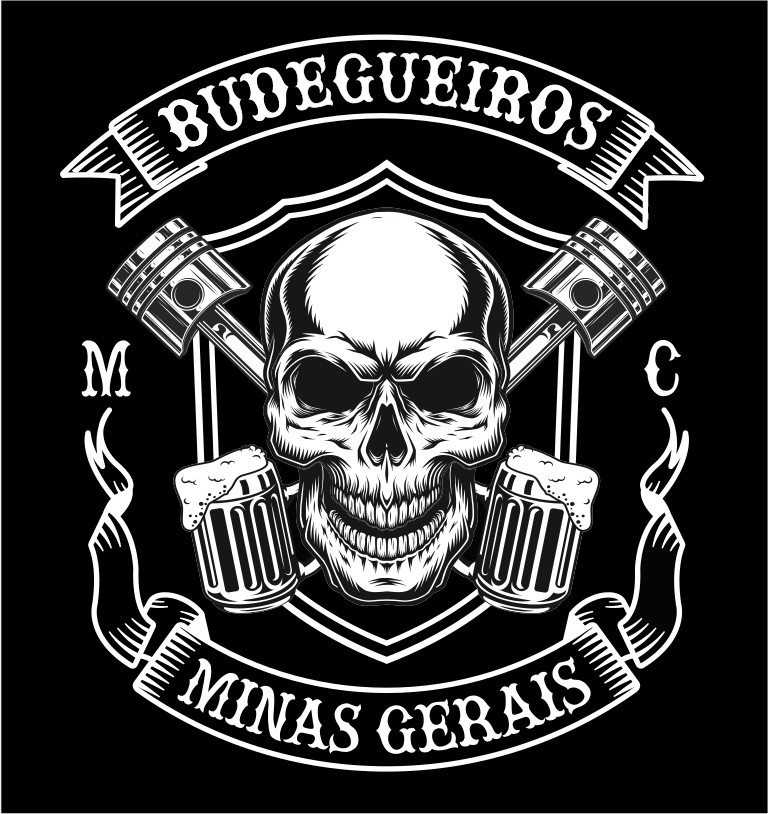
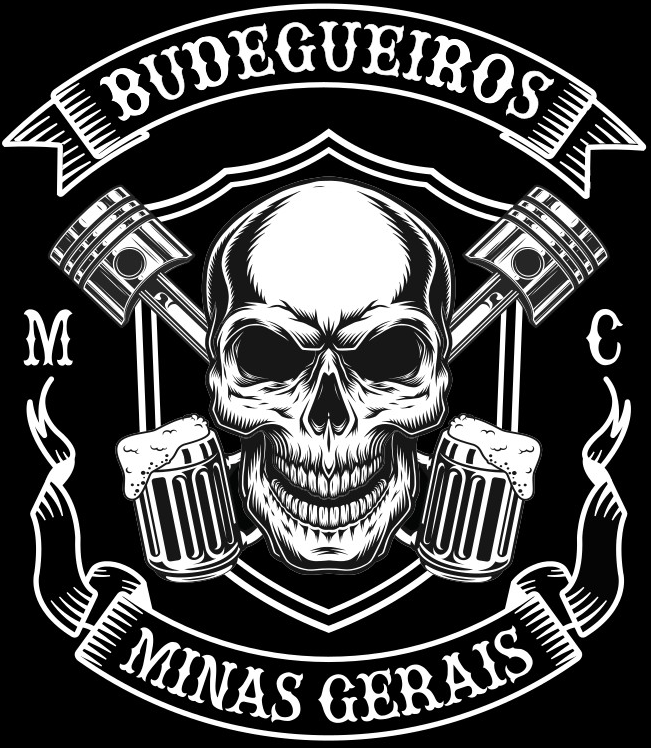
feat: enhance event confirmation features and UI updates
- Added functionality to track and manage event confirmations for logged-in users.
- Introduced loading states and confirmation counts in the AgendaEventCard component.
- Updated the AgendaContent component to fetch and display confirmation data.
- Added a new image (brasao2.jpg) and updated the existing brasao.jpg for improved visuals.
- Enhanced DashboardLayout with a new Home link for better navigation.

diff --git a/src/components/AgendaContent.tsx b/src/components/AgendaContent.tsx
@@ -35,6 +35,9 @@ export default function AgendaContent({ isLoggedIn = false }: AgendaContentProps
   const [loading, setLoading] = useState(true);
   const [error, setError] = useState<string | null>(null);
   const [activeTab, setActiveTab] = useState<'upcoming' | 'past'>('upcoming');
+  const [confirmacoes, setConfirmacoes] = useState<Record<string, string | null>>({});
+  const [confirmandoPresenca, setConfirmandoPresenca] = useState<Record<string, boolean>>({});
+  const [confirmadosCount, setConfirmadosCount] = useState<Record<string, number>>({});
 
   useEffect(() => {
     const carregarDados = async () => {
@@ -53,8 +56,29 @@ export default function AgendaContent({ isLoggedIn = false }: AgendaContentProps
         
         setEventos(eventosData || []);
 
-        // Buscar dados do membro (só se estiver autenticado)
-        if (user) {
+        // Buscar contagem de confirmados para todos os eventos (só se for página logada)
+        if (isLoggedIn && eventosData && eventosData.length > 0) {
+          const eventIds = eventosData.map(e => e.id);
+          const confirmadosMap: Record<string, number> = {};
+          
+          // Buscar contagem para cada evento
+          await Promise.all(
+            eventIds.map(async (eventId) => {
+              const { count } = await supabase
+                .from('confirmacoes_presenca')
+                .select('*', { count: 'exact', head: true })
+                .eq('evento_id', eventId)
+                .eq('status', 'Confirmado');
+              
+              confirmadosMap[eventId] = count || 0;
+            })
+          );
+          
+          setConfirmadosCount(confirmadosMap);
+        }
+
+        // Buscar dados do membro (só se estiver autenticado E for página logada)
+        if (user && isLoggedIn) {
           const { data: membroData, error: membroError } = await supabase
             .from('membros')
             .select('id, nome_guerra')
@@ -65,6 +89,24 @@ export default function AgendaContent({ isLoggedIn = false }: AgendaContentProps
             console.error('Erro ao buscar membro:', membroError);
           } else {
             setMembro(membroData);
+
+            // Buscar confirmações de presença do membro para todos os eventos
+            if (membroData && eventosData) {
+              const eventIds = eventosData.map(e => e.id);
+              const { data: confirmacoesData } = await supabase
+                .from('confirmacoes_presenca')
+                .select('id, evento_id')
+                .eq('membro_id', membroData.id)
+                .eq('status', 'Confirmado')
+                .in('evento_id', eventIds);
+
+              const confirmacoesMap: Record<string, string | null> = {};
+              eventosData.forEach(event => {
+                const confirmacao = confirmacoesData?.find(c => c.evento_id === event.id);
+                confirmacoesMap[event.id] = confirmacao?.id || null;
+              });
+              setConfirmacoes(confirmacoesMap);
+            }
           }
         }
         
@@ -78,12 +120,50 @@ export default function AgendaContent({ isLoggedIn = false }: AgendaContentProps
     };
 
     carregarDados();
-  }, [user]);
+  }, [user, isLoggedIn]);
 
   const handleRSVP = async (eventId: string, status: 'confirmed' | 'maybe') => {
-    if (!membro) {
-      alert('Você precisa estar logado para confirmar presença');
-      return;
+    if (!membro || confirmandoPresenca[eventId]) return;
+
+    setConfirmandoPresenca(prev => ({ ...prev, [eventId]: true }));
+
+    try {
+      const confirmacaoId = confirmacoes[eventId];
+
+      if (confirmacaoId) {
+        // Usuário já confirmou - cancelar confirmação
+        const { error } = await supabase
+          .from('confirmacoes_presenca')
+          .delete()
+          .eq('id', confirmacaoId);
+
+        if (error) throw error;
+
+        setConfirmacoes(prev => ({ ...prev, [eventId]: null }));
+        setConfirmadosCount(prev => ({ ...prev, [eventId]: Math.max(0, (prev[eventId] || 0) - 1) }));
+      } else {
+        // Criar nova confirmação
+        const { data, error } = await supabase
+          .from('confirmacoes_presenca')
+          .insert({
+            evento_id: eventId,
+            membro_id: membro.id,
+            status: 'Confirmado',
+            data_confirmacao: new Date().toISOString()
+          })
+          .select('id')
+          .single();
+
+        if (error) throw error;
+
+        setConfirmacoes(prev => ({ ...prev, [eventId]: data.id }));
+        setConfirmadosCount(prev => ({ ...prev, [eventId]: (prev[eventId] || 0) + 1 }));
+      }
+    } catch (error) {
+      console.error('Erro ao confirmar presença:', error);
+      alert('Erro ao processar confirmação. Tente novamente.');
+    } finally {
+      setConfirmandoPresenca(prev => ({ ...prev, [eventId]: false }));
     }
   };
 
@@ -169,8 +249,11 @@ export default function AgendaContent({ isLoggedIn = false }: AgendaContentProps
                 <AgendaEventCard 
                   key={event.id}
                   event={event}
-                  currentMember={membro}
-                  onRSVP={handleRSVP}
+                  currentMember={isLoggedIn ? membro : null}
+                  onRSVP={isLoggedIn ? handleRSVP : undefined}
+                  isConfirmed={isLoggedIn ? !!confirmacoes[event.id] : false}
+                  isConfirming={isLoggedIn ? (confirmandoPresenca[event.id] || false) : false}
+                  confirmadosCount={isLoggedIn ? (confirmadosCount[event.id] || 0) : 0}
                 />
               ))
             ) : (

diff --git a/src/components/AgendaEventCard.tsx b/src/components/AgendaEventCard.tsx
@@ -1,4 +1,4 @@
-import { MapPin, Clock, Navigation, ThumbsUp, HelpCircle } from 'lucide-react';
+import { MapPin, Clock, Navigation, ThumbsUp, Loader2, Users } from 'lucide-react';
 
 interface Evento {
   id: string;
@@ -24,9 +24,12 @@ interface AgendaEventCardProps {
   event: Evento;
   currentMember?: MembroData | null;
   onRSVP?: (eventId: string, status: 'confirmed' | 'maybe') => void;
+  isConfirmed?: boolean;
+  isConfirming?: boolean;
+  confirmadosCount?: number;
 }
 
-export const AgendaEventCard: React.FC<AgendaEventCardProps> = ({ event, currentMember, onRSVP }) => {
+export const AgendaEventCard: React.FC<AgendaEventCardProps> = ({ event, currentMember, onRSVP, isConfirmed = false, isConfirming = false, confirmadosCount = 0 }) => {
   const eventDate = new Date(`${event.data_evento}T00:00:00`);
   const day = eventDate.getDate();
   const month = eventDate.toLocaleDateString('pt-BR', { month: 'short' }).toUpperCase().replace('.', '');
@@ -124,32 +127,44 @@ export const AgendaEventCard: React.FC<AgendaEventCardProps> = ({ event, current
           </div>
         </div>
 
-        {currentMember && onRSVP && (
-          <div className="pt-4 border-t border-gray-800 flex flex-col sm:flex-row justify-between items-center gap-4">
-            {/* Attendees - Placeholder for future implementation */}
-            <div className="flex items-center gap-2">
-              <span className="text-xs text-gray-500 font-medium">
-                Confirme sua presença
-              </span>
+        <div className="pt-4 border-t border-gray-800 flex flex-col sm:flex-row justify-between items-center gap-4">
+          {/* Confirmados - só exibe se houver membro logado e contagem > 0 */}
+          {currentMember && confirmadosCount > 0 && (
+            <div className="flex items-center gap-2 text-gray-400 text-sm">
+              <Users className="w-5 h-5" />
+              <span>{confirmadosCount} irmãos confirmados</span>
             </div>
+          )}
 
-            {/* Actions */}
+          {/* Actions */}
+          {currentMember && onRSVP && (
             <div className="flex gap-2 w-full sm:w-auto">
               <button 
-                onClick={() => onRSVP(event.id, 'confirmed')}
-                className="flex-1 sm:flex-none flex items-center justify-center gap-2 px-4 py-2 rounded text-xs font-bold transition-all bg-[#0f1014] border border-gray-700 text-gray-300 hover:border-green-600 hover:text-green-500"
+                onClick={() => onRSVP && onRSVP(event.id, 'confirmed')}
+                disabled={isConfirming}
+                className={`flex-1 sm:flex-none flex items-center justify-center gap-2 px-4 py-2 rounded text-xs font-bold transition-all ${
+                  isConfirmed
+                    ? 'bg-green-600/20 border border-green-600 text-green-500 hover:bg-green-600/30'
+                    : 'bg-[#0f1014] border border-gray-700 text-gray-300 hover:border-green-600 hover:text-green-500'
+                } disabled:opacity-50 disabled:cursor-not-allowed`}
               >
-                <ThumbsUp size={14} /> Eu Vou
-              </button>
-              <button 
-                onClick={() => onRSVP(event.id, 'maybe')}
-                className="flex-1 sm:flex-none flex items-center justify-center gap-2 px-4 py-2 rounded text-xs font-bold transition-all bg-[#0f1014] border border-gray-700 text-gray-300 hover:border-yellow-600 hover:text-yellow-500"
-              >
-                <HelpCircle size={14} /> Talvez
+                {isConfirming ? (
+                  <>
+                    <Loader2 size={14} className="animate-spin" /> Processando...
+                  </>
+                ) : isConfirmed ? (
+                  <>
+                    <ThumbsUp size={14} /> Presença Confirmada
+                  </>
+                ) : (
+                  <>
+                    <ThumbsUp size={14} /> Eu Vou
+                  </>
+                )}
               </button>
             </div>
-          </div>
-        )}
+          )}
+        </div>
       </div>
     </div>
   );

diff --git a/src/components/DashboardLayout.tsx b/src/components/DashboardLayout.tsx
@@ -1,6 +1,6 @@
 import { useState, useEffect, ReactNode } from 'react';
 import { Link, useLocation, useNavigate } from 'react-router-dom';
-import { Calendar, Users, LogOut, Shield, User, DollarSign, Menu, X, BarChart3, Bell } from 'lucide-react';
+import { Calendar, Users, LogOut, Shield, User, DollarSign, Menu, X, BarChart3, Bell, Home } from 'lucide-react';
 import { ImProfile } from "react-icons/im";
 import { TiMessages } from "react-icons/ti";
 import { useAuth } from '../contexts/AuthContext';
@@ -139,6 +139,13 @@ export default function DashboardLayout({ children }: DashboardLayoutProps) {
         {/* Menu de Navegação */}
         <nav className="flex-1 py-6">
           <Link 
+            to="/" 
+            className={`flex items-center gap-3 px-6 py-3 ${isActive('/') ? 'bg-brand-red text-white' : 'text-gray-400 hover:text-white hover:bg-gray-900'} font-oswald uppercase text-sm transition`}
+          >
+            <Home className="w-5 h-5" />
+            Home
+          </Link>
+          <Link 
             to="/dashboard" 
             className={`flex items-center gap-3 px-6 py-3 ${isActive('/dashboard') ? 'bg-brand-red text-white' : 'text-gray-400 hover:text-white hover:bg-gray-900'} font-oswald uppercase text-sm font-bold transition`}
           >
@@ -234,6 +241,14 @@ export default function DashboardLayout({ children }: DashboardLayoutProps) {
 
             {/* Menu de Navegação Mobile */}
             <nav className="flex-1 py-6">
+              <Link 
+                to="/" 
+                onClick={() => setMenuMobileAberto(false)} 
+                className={`flex items-center gap-3 px-6 py-3 ${isActive('/') ? 'bg-brand-red text-white' : 'text-gray-400 hover:text-white hover:bg-gray-900'} font-oswald uppercase text-sm transition`}
+              >
+                <Home className="w-5 h-5" />
+                Home
+              </Link>
               <Link 
                 to="/dashboard" 
                 onClick={() => setMenuMobileAberto(false)} 

diff --git a/src/pages/Home.tsx b/src/pages/Home.tsx
@@ -21,10 +21,10 @@ export default function Home() {
         <section id="home" className="relative h-screen w-full overflow-hidden bg-brand-dark pt-0">
             {/* Background com Caveira (placeholder) */}
             <div 
-                className="absolute inset-0 bg-cover bg-center opacity-10"
+                className="absolute inset-0 bg-cover bg-center"
                 style={{
                     backgroundImage: `url(/brasao.jpg)`,
-                    backgroundSize: '45%',
+                    backgroundSize: '37%',
                     backgroundRepeat: 'no-repeat',
                     backgroundPosition: 'right center',
                     maskImage: 'radial-gradient(ellipse at center, black 40%, transparent 75%)',
@@ -33,8 +33,8 @@ export default function Home() {
             />
 
             {/* Conteúdo Principal */}
-            <div className="relative z-10 h-full flex items-center justify-start pl-20 md:pl-32 lg:pl-48">
-                <div className="max-w-2xl px-4 md:px-8">
+            <div className="relative z-10 h-full flex items-center justify-center md:justify-start px-4 md:pl-32 lg:pl-48">
+                <div className="max-w-2xl px-4 md:px-8 text-center md:text-left">
                     {/* Título Principal */}
                     <h1 className="text-4xl md:text-6xl lg:text-7xl font-oswald font-bold leading-tight mb-6">
                         <span className="text-white">MUITO MAIS QUE ESTRADA:</span>
